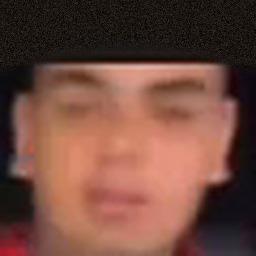
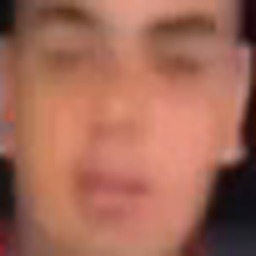
Ottati: remera ocupando todo el torso y las mangas, y la cara ocupando toda la cara
Claude-Session: https://claude.ai/code/session_017Naghp5zRz9zM9bG8a4dHp

diff --git a/js/texturas.js b/js/texturas.js
@@ -346,13 +346,14 @@ export function cargarCabeza(p) {
       const [abajo, gab] = lienzo();
       gab.fillStyle = piel;
       gab.fillRect(0, 0, s, s);
-      // Remera con foto (opcional): { frente, tela, espalda? } en assets/.
+      // Remera con foto (opcional): { frente, tela, espalda?, manga? } en assets/.
       let ropa = null;
       if (p.remeraFotos) {
-        const [imgFrente, imgTela, imgEspalda] = await Promise.all([
+        const [imgFrente, imgTela, imgEspalda, imgManga] = await Promise.all([
           cargarImagen(`assets/${p.remeraFotos.frente}`),
           cargarImagen(`assets/${p.remeraFotos.tela}`),
           p.remeraFotos.espalda ? cargarImagen(`assets/${p.remeraFotos.espalda}`) : null,
+          p.remeraFotos.manga ? cargarImagen(`assets/${p.remeraFotos.manga}`) : null,
         ]);
         if (imgFrente && imgTela) {
           const aCanvas = (img) => {
@@ -360,7 +361,7 @@ export function cargarCabeza(p) {
             c.getContext('2d').drawImage(img, 0, 0);
             return c;
           };
-          ropa = { frente: aCanvas(imgFrente), tela: aCanvas(imgTela), espalda: imgEspalda ? aCanvas(imgEspalda) : null };
+          ropa = { frente: aCanvas(imgFrente), tela: aCanvas(imgTela), espalda: imgEspalda ? aCanvas(imgEspalda) : null, manga: imgManga ? aCanvas(imgManga) : null };
         }
       }
       if (p.barba) {

diff --git a/js/personaje.js b/js/personaje.js
@@ -130,6 +130,7 @@ export function crearPersonaje(p, cabezaTex, vestido = null) {
     const tela = lambert(tex(cabezaTex.ropa.tela));
     const espalda = cabezaTex.ropa.espalda ? lambert(tex(cabezaTex.ropa.espalda)) : tela;
     torso = [tela, tela, tela, tela, lambert(tex(cabezaTex.ropa.frente)), espalda];
+    if (cabezaTex.ropa.manga) mangaArriba = lambert(tex(cabezaTex.ropa.manga));
     // La panza muestra la parte del frente que tapa, así el diseño sigue continuo.
     const u0 = (anchoTorso / 2 - anchoPanza / 2) / anchoTorso;
     const frentePanza = lambert(tex(recorteCanvas(cabezaTex.ropa.frente, u0, 1 - (3.45 - 2) / 2, 1 - u0, 1 - (2.05 - 2) / 2)));

diff --git a/js/ottati.js b/js/ottati.js
@@ -9,7 +9,7 @@ import { sfx } from './sfx.js';
 export const OTTATI = {
   id: 'ottati', nombre: 'Ottati', foto: 'ottati.jpeg', piel: '#bd8262', pelo: '#120e0c', peinado: 'rapado', gordura: 0.45,
   remera: '#f6f6f6', pantalon: '#1f2a44',
-  remeraFotos: { frente: 'ropa/ottati_frente.jpg', espalda: 'ropa/ottati_espalda.jpg', tela: 'ropa/ottati_tela.jpg' },
+  remeraFotos: { frente: 'ropa/ottati_frente.jpg', espalda: 'ropa/ottati_espalda.jpg', manga: 'ropa/ottati_manga.jpg', tela: 'ropa/ottati_tela.jpg' },
 };
 const DESPUES = ['A lo baraja gil', 'Acá ando buscando unas churraskitas gil'];
 const ALCANCE = 5.4; // a cuánto se le puede chocar la mano

diff --git a/herramientas/ottati.py b/herramientas/ottati.py
@@ -1,11 +1,9 @@
 """Ottati para el juego. Se procesa acá, sin servicios externos.
 
-- Cara: un cuadro del video (assets/caras/ottati1.mp4, 4 s: de frente y con la boca cerrada)
-  recortado en cuadrado y agrandado. En el video la barra de la app le corta la frente, así que
-  arriba se pinta el pelo rapado (oscuro, con la entrada un poco más baja en las sienes).
-- Remera de Nacional: frente y espalda recortados de las fotos, solo el cuerpo (sin las mangas,
-  que en el muñeco son los brazos), con tela blanca a los costados para llegar al ancho del
-  torso sin estirar el dibujo; y la tela blanca para las mangas.
+- Cara: un cuadro del video (assets/caras/ottati1.mp4, 4 s: de frente y con la boca cerrada),
+  solo la cara, agrandada para que ocupe todo el frente de la cabeza.
+- Remera de Nacional: frente y espalda de las fotos ocupando todo el torso, la manga sacada
+  de la foto y la tela blanca para los costados.
 
     python3 herramientas/ottati.py      (necesita ffmpeg)
 """
@@ -20,18 +18,9 @@ with tempfile.TemporaryDirectory() as tmp:
     cuadro = f'{tmp}/cuadro.png'
     subprocess.run(['ffmpeg', '-v', 'error', '-i', VIDEO, '-ss', '4.0', '-frames:v', '1', cuadro, '-y'], check=True)
     im = Image.open(cuadro).convert('RGB')
-x0, y0, lado = 200, 512, 60  # la cara en el cuadro de 384x832 (la frente arranca en y = 528)
-cara = im.crop((x0, y0, x0 + lado, y0 + lado)).resize((256, 256), Image.LANCZOS)
+# Solo la cara, de la frente (justo abajo de la barra de la app) al mentón y de oreja a oreja.
+cara = im.crop((205, 528, 256, 570)).resize((256, 256), Image.LANCZOS)
 cara = cara.filter(ImageFilter.UnsharpMask(radius=2, percent=70, threshold=2))
-# Pelo rapado arriba: tapa la barra de la app y baja un poco en las sienes.
-pelo = Image.new('RGB', (256, 256), (28, 22, 18))
-mascara = Image.new('L', (256, 256), 0)
-d = ImageDraw.Draw(mascara)
-d.polygon([(0, 0), (256, 0), (256, 70), (225, 62), (190, 50), (128, 46), (66, 50), (31, 62), (0, 70)], fill=255)
-mascara = mascara.filter(ImageFilter.GaussianBlur(5))
-ruido = np.random.default_rng(4).normal(0, 9, (256, 256, 1))
-pelo = Image.fromarray((np.asarray(pelo, np.float32) + ruido).clip(0, 255).astype(np.uint8))
-cara.paste(pelo, (0, 0), mascara)
 cara.save('assets/caras/ottati.jpeg', quality=92)
 
 rng = np.random.default_rng(6)
@@ -40,12 +29,11 @@ def tela(w, h):
     return Image.fromarray(base.clip(0, 255).astype(np.uint8))
 
 tela(256, 256).save('assets/ropa/ottati_tela.jpg', quality=90)
-# Del cuello hasta la cintura; el torso del muñeco es más ancho que alto (512x440).
+# Del cuello a la cintura y de hombro a hombro, estirada a todo el torso (512x440).
 for lado_remera, nombre in (('frente', 'frente'), ('atras', 'espalda')):
     foto = Image.open(f'assets/especiales/remeraottati{lado_remera}.jpeg').convert('RGB')
-    cuerpo = foto.crop((136, 56, 312, 283))
-    cuerpo = cuerpo.resize((round(cuerpo.width * 440 / cuerpo.height), 440), Image.LANCZOS)
-    lienzo = tela(512, 440)
-    lienzo.paste(cuerpo, ((512 - cuerpo.width) // 2, 0))
-    lienzo.save(f'assets/ropa/ottati_{nombre}.jpg', quality=90)
-print('listo: assets/caras/ottati.jpeg, assets/ropa/ottati_frente.jpg, ottati_espalda.jpg y ottati_tela.jpg')
+    foto.crop((120, 56, 328, 283)).resize((512, 440), Image.LANCZOS).save(f'assets/ropa/ottati_{nombre}.jpg', quality=90)
+# Manga: el pedazo de la manga derecha de la foto (con el logo y las rayitas del puño).
+foto = Image.open('assets/especiales/remeraottatifrente.jpeg').convert('RGB')
+foto.crop((98, 112, 142, 200)).resize((128, 256), Image.LANCZOS).save('assets/ropa/ottati_manga.jpg', quality=90)
+print('listo: assets/caras/ottati.jpeg, assets/ropa/ottati_frente.jpg, ottati_espalda.jpg, ottati_manga.jpg y ottati_tela.jpg')

diff --git a/README.md b/README.md
@@ -145,7 +145,7 @@ La música del juego es `assets/especiales/vecicoon.mp3`, en loop sin cortes (`j
 ## Dufre, Ottati, la moneda y los cuadros de los pasillos
 
 - **Dufre** (`js/dufre.js`) a veces camina por la vereda de la mansión, de punta a punta, y a veces da vueltas a la plaza de la Ciudad Vecibanda (cada 4 minutos puede mudarse, solo si estás lejos de los dos lugares, así nunca desaparece delante tuyo). Siempre con el buzo de entrenamiento negro (franjas blancas, logo y escudo, armado con `herramientas/dufre.py`), el cierre hasta la pera y las manos en los bolsillos. Si te acercás, frena, te mira y te dice "¿Vamo a ver el interno?" (vuelve a decirlo cuando te alejás y volvés).
-- **Ottati** (`js/ottati.js`) pasea igual que Dufre (los dos usan `js/paseante.js`: vereda de la mansión o plaza de la ciudad). Remera blanca de Nacional con el frente y la espalda de las fotos (`remeraFotos.espalda`), morochito, rapado (`peinado: 'rapado'`) y medio gordito (`gordura: 0.45`, menos que Bauti o la Mazza). Si te acercás, frena, te dice "¿Qué onda mano?" y te ofrece la mano: "Chocar la mano con Ottati (E)". Al chocarla dice "A lo baraja gil" o "Acá ando buscando unas churraskitas gil" (se van turnando). El choque es el mismo que el de Kelvin (`ofrecerMano`, `empezarChoque` y `moverChoque` en `js/gimnasio.js`). La cara sale de un cuadro del video `assets/caras/ottati1.mp4` y la remera de `assets/especiales/remeraottati*.jpeg`, recortadas con `herramientas/ottati.py` (acá en el contenedor, sin servicios externos).
+- **Ottati** (`js/ottati.js`) pasea igual que Dufre (los dos usan `js/paseante.js`: vereda de la mansión o plaza de la ciudad). Remera blanca de Nacional con el frente, la espalda y la manga de las fotos (`remeraFotos.espalda` y `manga`), morochito, rapado (`peinado: 'rapado'`) y medio gordito (`gordura: 0.45`, menos que Bauti o la Mazza). Si te acercás, frena, te dice "¿Qué onda mano?" y te ofrece la mano: "Chocar la mano con Ottati (E)". Al chocarla dice "A lo baraja gil" o "Acá ando buscando unas churraskitas gil" (se van turnando). El choque es el mismo que el de Kelvin (`ofrecerMano`, `empezarChoque` y `moverChoque` en `js/gimnasio.js`). La cara sale de un cuadro del video `assets/caras/ottati1.mp4` y la remera de `assets/especiales/remeraottati*.jpeg`, recortadas con `herramientas/ottati.py` (acá en el contenedor, sin servicios externos).
 - **La moneda** tiene la cara del Negro Bebé: `assets/moneda.png`, hecha con `herramientas/moneda.py` desde `assets/especiales/moneda.jpeg`.
 - **Pasillos:** de las pinturas famosas solo quedó la Gioconda, con la cara de Bauti (bautizoom) puesta acá con OpenCV (`herramientas/gioconda_bauti.py`, sin servicios de IA externos) y su cartel de siempre. En los otros lugares van Masacre, Toto lindo, Veneca y el video de la flauta del pelado, sin cartel. Las pinturas famosas de las habitaciones y del restaurante se sacaron.
 - **Flauta del Pelado:** objeto Vecibanda nuevo (flauta dulce verde lima en su pedestal).
